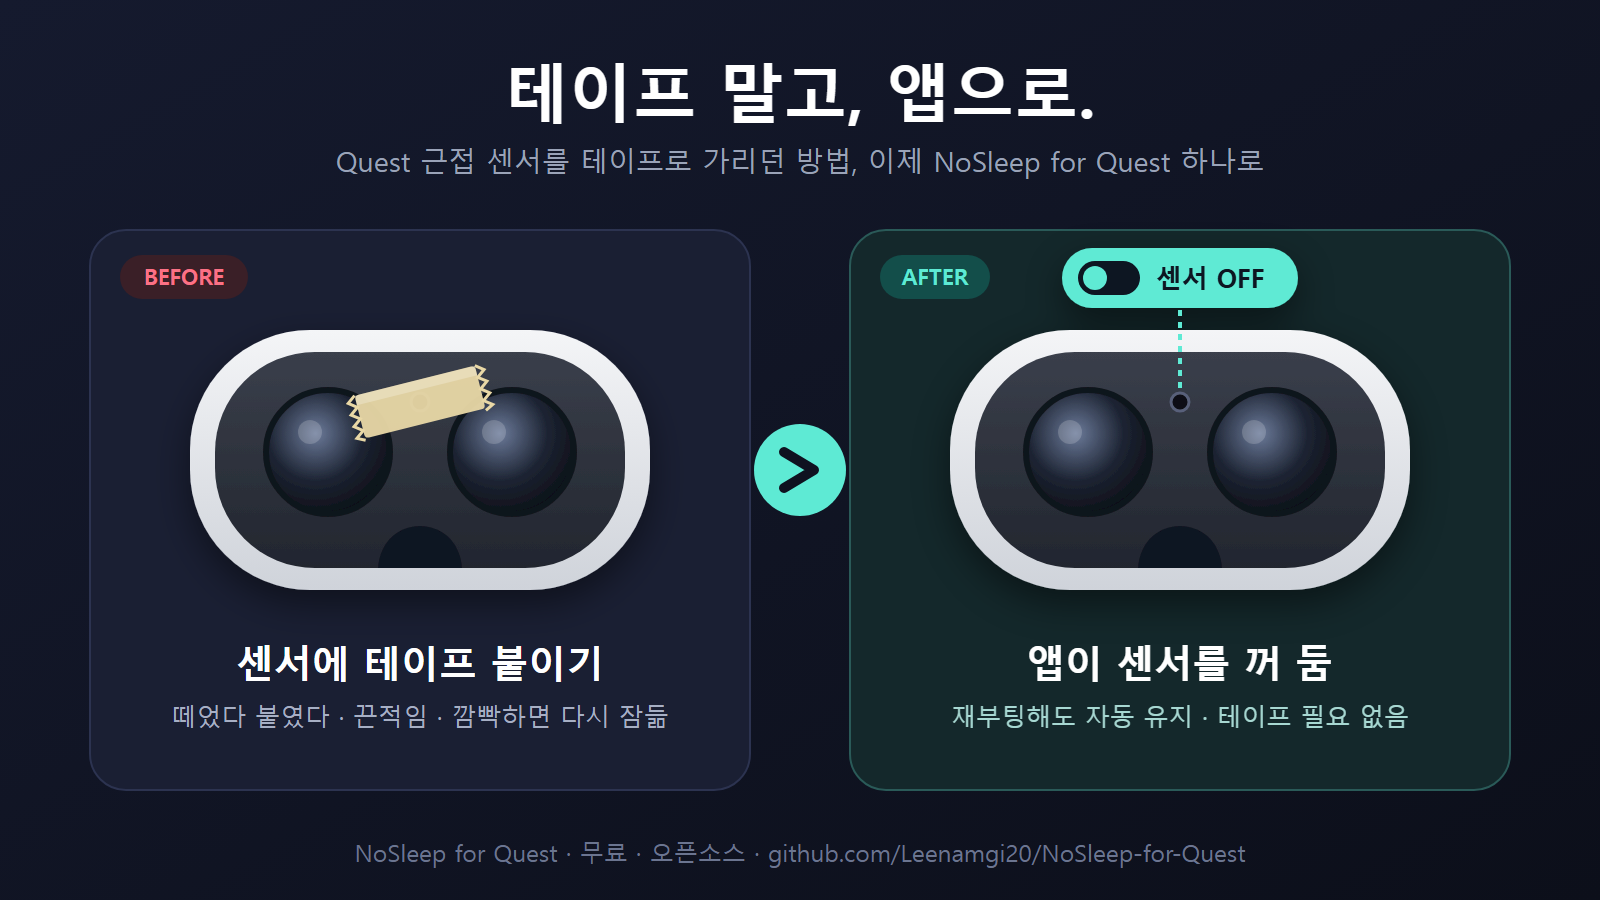
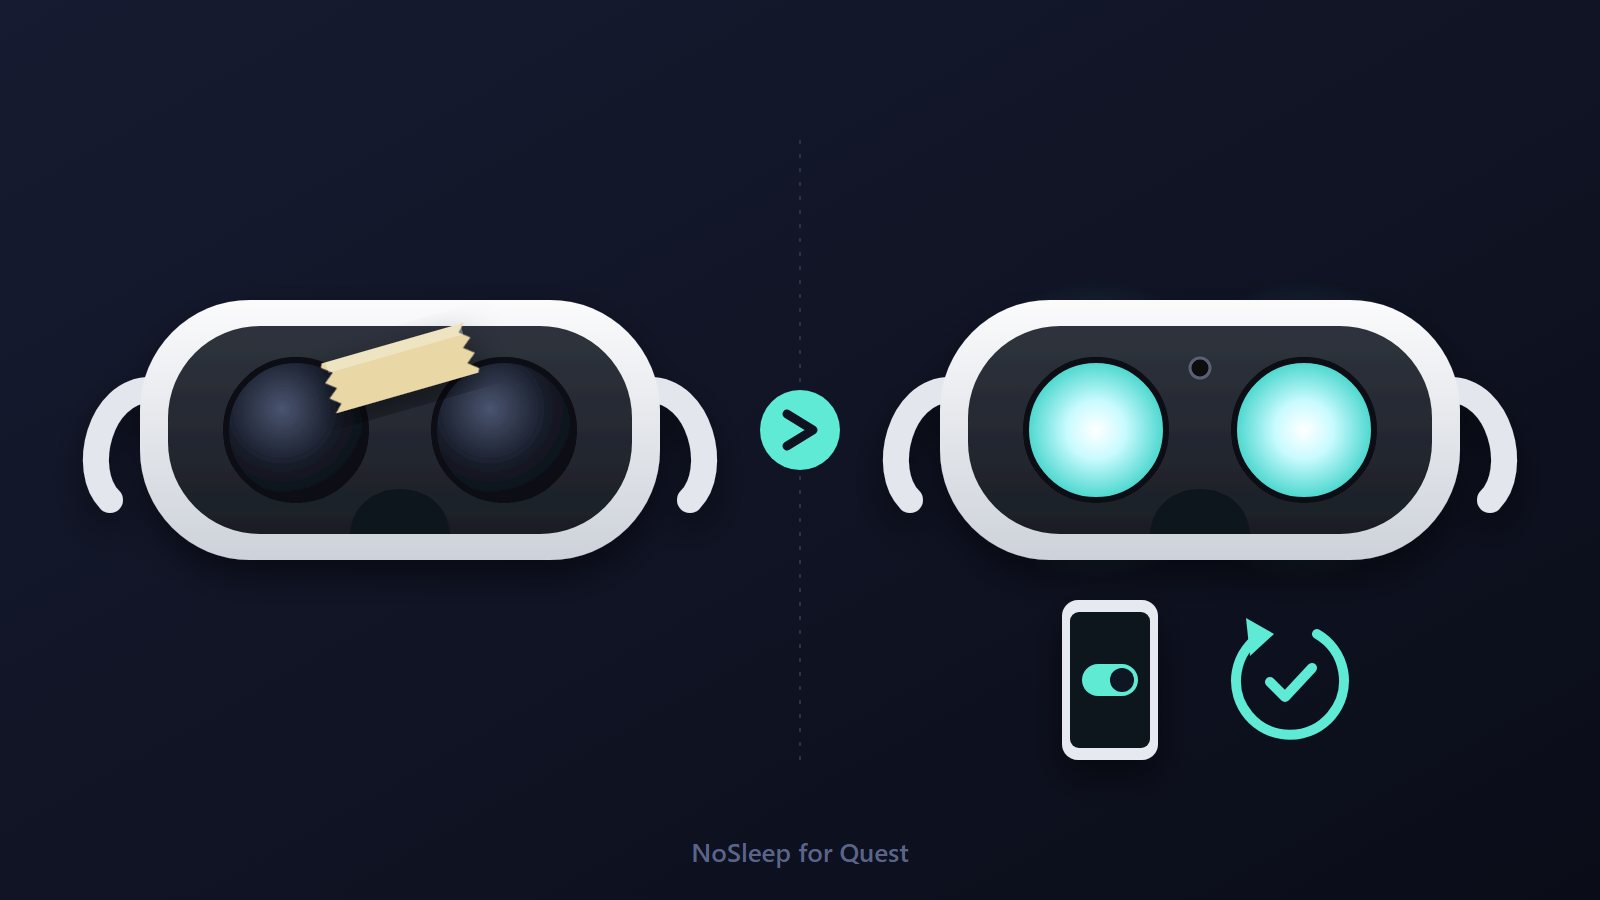
Promo: text-free illustration cards (tape -> app, awake lenses)

diff --git a/docs/promo/card-tape.html b/docs/promo/card-tape.html
@@ -1,91 +1,73 @@
 <!doctype html>
-<html lang="ko"><head><meta charset="utf-8"><title>NoSleep card - tape</title>
-<style>
-  html,body{margin:0;background:#0f1220}
-  body{width:1600px;height:900px;overflow:hidden;font-family:"Malgun Gothic","Apple SD Gothic Neo","Segoe UI",sans-serif}
-</style></head>
+<html><head><meta charset="utf-8"><title>NoSleep card - tape</title>
+<style>html,body{margin:0;background:#0d1020}body{width:1600px;height:900px;overflow:hidden;font-family:"Segoe UI",sans-serif}</style></head>
 <body>
 <svg width="1600" height="900" viewBox="0 0 1600 900" xmlns="http://www.w3.org/2000/svg">
   <defs>
-    <linearGradient id="bg" x1="0" y1="0" x2="1" y2="1">
-      <stop offset="0" stop-color="#151a2e"/><stop offset="1" stop-color="#0c0f1a"/>
-    </linearGradient>
-    <linearGradient id="shell" x1="0" y1="0" x2="0" y2="1">
-      <stop offset="0" stop-color="#f4f5f7"/><stop offset="1" stop-color="#cfd3da"/>
-    </linearGradient>
-    <linearGradient id="cushion" x1="0" y1="0" x2="0" y2="1">
-      <stop offset="0" stop-color="#3a3f4b"/><stop offset="1" stop-color="#22262f"/>
-    </linearGradient>
-    <radialGradient id="lens" cx="0.4" cy="0.35" r="0.7">
-      <stop offset="0" stop-color="#6b7a99"/><stop offset="0.55" stop-color="#1d2433"/><stop offset="1" stop-color="#0b0e15"/>
-    </radialGradient>
-    <filter id="soft" x="-20%" y="-20%" width="140%" height="140%"><feDropShadow dx="0" dy="14" stdDeviation="18" flood-color="#000" flood-opacity=".45"/></filter>
+    <linearGradient id="bg" x1="0" y1="0" x2="1" y2="1"><stop offset="0" stop-color="#161b31"/><stop offset="1" stop-color="#0a0d18"/></linearGradient>
+    <linearGradient id="white" x1="0" y1="0" x2="0" y2="1"><stop offset="0" stop-color="#fbfbfc"/><stop offset="1" stop-color="#cdd2da"/></linearGradient>
+    <linearGradient id="foam" x1="0" y1="0" x2="0" y2="1"><stop offset="0" stop-color="#2f333d"/><stop offset="1" stop-color="#1b1e26"/></linearGradient>
+    <radialGradient id="lensOff" cx="0.4" cy="0.35" r="0.7"><stop offset="0" stop-color="#4a5470"/><stop offset=".6" stop-color="#161b28"/><stop offset="1" stop-color="#090b11"/></radialGradient>
+    <radialGradient id="lensOn" cx="0.5" cy="0.5" r="0.6"><stop offset="0" stop-color="#ffffff"/><stop offset=".35" stop-color="#c8fbff"/><stop offset=".8" stop-color="#4fd8cf"/><stop offset="1" stop-color="#1c7f86"/></radialGradient>
+    <radialGradient id="halo" cx="0.5" cy="0.5" r="0.5"><stop offset="0" stop-color="#c8fbff" stop-opacity=".7"/><stop offset=".45" stop-color="#5eead4" stop-opacity=".22"/><stop offset="1" stop-color="#5eead4" stop-opacity="0"/></radialGradient>
+    <filter id="shadow" x="-30%" y="-30%" width="160%" height="160%"><feDropShadow dx="0" dy="16" stdDeviation="18" flood-color="#000" flood-opacity=".5"/></filter>
 
-    <!-- Generic VR headset seen from the face side: cushion, two lenses, nose gap, proximity sensor between lenses -->
-    <g id="headset">
-      <rect x="-230" y="-130" width="460" height="260" rx="120" fill="url(#shell)"/>
-      <rect x="-205" y="-108" width="410" height="216" rx="100" fill="url(#cushion)"/>
-      <circle cx="-92" cy="-8" r="62" fill="url(#lens)" stroke="#11141b" stroke-width="6"/>
-      <circle cx="92" cy="-8" r="62" fill="url(#lens)" stroke="#11141b" stroke-width="6"/>
-      <circle cx="-110" cy="-28" r="12" fill="#fff" opacity=".18"/>
-      <circle cx="74" cy="-28" r="12" fill="#fff" opacity=".18"/>
-      <path d="M-42 108 C -38 52, 38 52, 42 108 Z" fill="#0f1220"/>
-      <circle cx="0" cy="-58" r="9" fill="#0b0d12" stroke="#59607a" stroke-width="3"/>
+    <!-- Quest-2-like headset, face side: white shell, side straps, black foam, two lenses, nose gap, proximity sensor -->
+    <g id="hmd">
+      <path d="M-250 -40 C -300 -40, -320 40, -290 70" fill="none" stroke="#e3e6ec" stroke-width="26" stroke-linecap="round"/>
+      <path d="M250 -40 C 300 -40, 320 40, 290 70" fill="none" stroke="#e3e6ec" stroke-width="26" stroke-linecap="round"/>
+      <rect x="-260" y="-130" width="520" height="260" rx="110" fill="url(#white)"/>
+      <rect x="-232" y="-104" width="464" height="208" rx="92" fill="url(#foam)"/>
+      <path d="M-50 104 C -46 44, 46 44, 50 104 Z" fill="#11131a"/>
+      <circle cx="0" cy="-62" r="10" fill="#07080c" stroke="#5a6176" stroke-width="3"/>
     </g>
   </defs>
 
   <rect width="1600" height="900" fill="url(#bg)"/>
+  <line x1="800" y1="140" x2="800" y2="760" stroke="#2a3150" stroke-width="2" stroke-dasharray="4 10"/>
 
-  <!-- title -->
-  <text x="800" y="118" text-anchor="middle" font-size="64" font-weight="800" fill="#ffffff">테이프 말고, 앱으로.</text>
-  <text x="800" y="172" text-anchor="middle" font-size="28" fill="#9aa3b8">Quest 근접 센서를 테이프로 가리던 방법, 이제 NoSleep for Quest 하나로</text>
-
-  <!-- BEFORE panel -->
-  <g transform="translate(420 500)">
-    <rect x="-330" y="-270" width="660" height="560" rx="36" fill="#1a1f33" stroke="#2c3350" stroke-width="2"/>
-    <rect x="-300" y="-245" width="128" height="44" rx="22" fill="#3a1f27"/>
-    <text x="-236" y="-215" text-anchor="middle" font-size="22" font-weight="700" fill="#fb7185">BEFORE</text>
-    <g transform="translate(0 -40)" filter="url(#soft)">
-      <use href="#headset"/>
-      <!-- tape over the sensor -->
-      <g transform="translate(0 -58) rotate(-14)">
-        <rect x="-62" y="-22" width="124" height="44" rx="4" fill="#e9d8a6" opacity=".95"/>
-        <path d="M-62 -22 l-8 6 l8 6 l-8 6 l8 6 l-8 6 l8 6 l-8 6 l8 4" fill="none" stroke="#e9d8a6" stroke-width="3"/>
-        <path d="M62 -22 l8 6 l-8 6 l8 6 l-8 6 l8 6 l-8 6 l8 6 l-8 4" fill="none" stroke="#e9d8a6" stroke-width="3"/>
-        <rect x="-62" y="-22" width="124" height="10" fill="#fff" opacity=".25"/>
-      </g>
+  <!-- LEFT: tape over the sensor -->
+  <g transform="translate(400 430)">
+    <g filter="url(#shadow)">
+      <use href="#hmd"/>
+      <circle cx="-104" cy="0" r="70" fill="url(#lensOff)" stroke="#0a0c12" stroke-width="6"/>
+      <circle cx="104" cy="0" r="70" fill="url(#lensOff)" stroke="#0a0c12" stroke-width="6"/>
     </g>
-    <text x="0" y="178" text-anchor="middle" font-size="38" font-weight="800" fill="#ffffff">센서에 테이프 붙이기</text>
-    <text x="0" y="226" text-anchor="middle" font-size="25" fill="#a7afc4">떼었다 붙였다 · 끈적임 · 깜빡하면 다시 잠듦</text>
+    <g transform="translate(0 -62) rotate(-16)" filter="url(#shadow)">
+      <path d="M-74 -26 L 74 -26 L 66 -18 L 76 -10 L 66 -2 L 76 6 L 66 14 L 76 22 L 74 26 L -74 26 L -66 18 L -76 10 L -66 2 L -76 -6 L -66 -14 L -76 -22 Z" fill="#e9d8a6"/>
+      <rect x="-70" y="-26" width="140" height="11" fill="#fff" opacity=".3"/>
+    </g>
+  </g>
+
+  <!-- RIGHT: no tape, lenses on, app toggle, survives reboot -->
+  <g transform="translate(1200 430)">
+    <circle cx="-104" cy="0" r="150" fill="url(#halo)"/><circle cx="104" cy="0" r="150" fill="url(#halo)"/>
+    <g filter="url(#shadow)">
+      <use href="#hmd"/>
+      <circle cx="-104" cy="0" r="70" fill="url(#lensOn)" stroke="#0a0c12" stroke-width="6"/>
+      <circle cx="104" cy="0" r="70" fill="url(#lensOn)" stroke="#0a0c12" stroke-width="6"/>
+    </g>
+    <!-- phone with a toggle switched on -->
+    <g transform="translate(-90 250)" filter="url(#shadow)">
+      <rect x="-48" y="-80" width="96" height="160" rx="16" fill="#e6e9ef"/>
+      <rect x="-40" y="-68" width="80" height="136" rx="9" fill="#10141f"/>
+      <rect x="-28" y="-16" width="56" height="32" rx="16" fill="#5eead4"/>
+      <circle cx="12" cy="0" r="12" fill="#0f1220"/>
+    </g>
+    <!-- reboot arrow with check -->
+    <g transform="translate(90 250)">
+      <path d="M 27 -46 A 54 54 0 1 1 -27 -46" fill="none" stroke="#5eead4" stroke-width="10" stroke-linecap="round"/>
+      <path d="M -44 -62 L -16 -46 L -40 -24 Z" fill="#5eead4"/>
+      <path d="M-20 2 L -5 17 L 22 -12" fill="none" stroke="#5eead4" stroke-width="10" stroke-linecap="round" stroke-linejoin="round"/>
+    </g>
   </g>
 
   <!-- arrow -->
-  <g transform="translate(800 470)">
-    <circle r="46" fill="#5eead4"/>
-    <path d="M-16 -18 L14 0 L-16 18" fill="none" stroke="#0f1220" stroke-width="10" stroke-linecap="round" stroke-linejoin="round"/>
+  <g transform="translate(800 430)">
+    <circle r="40" fill="#5eead4"/>
+    <path d="M-13 -16 L 13 0 L -13 16" fill="none" stroke="#0f1220" stroke-width="9" stroke-linecap="round" stroke-linejoin="round"/>
   </g>
 
-  <!-- AFTER panel -->
-  <g transform="translate(1180 500)">
-    <rect x="-330" y="-270" width="660" height="560" rx="36" fill="#14282b" stroke="#2a5a58" stroke-width="2"/>
-    <rect x="-300" y="-245" width="110" height="44" rx="22" fill="#134e4a"/>
-    <text x="-245" y="-215" text-anchor="middle" font-size="22" font-weight="700" fill="#5eead4">AFTER</text>
-    <g transform="translate(0 -40)" filter="url(#soft)">
-      <use href="#headset"/>
-      <!-- "sensor off" badge pointing at the sensor -->
-      <line x1="0" y1="-72" x2="0" y2="-150" stroke="#5eead4" stroke-width="4" stroke-dasharray="6 6"/>
-      <g transform="translate(0 -182)">
-        <rect x="-118" y="-30" width="236" height="60" rx="30" fill="#5eead4"/>
-        <rect x="-102" y="-17" width="62" height="34" rx="17" fill="#0f1220"/>
-        <circle cx="-85" cy="0" r="12" fill="#5eead4"/>
-        <text x="30" y="10" text-anchor="middle" font-size="26" font-weight="800" fill="#0f1220">센서 OFF</text>
-      </g>
-    </g>
-    <text x="0" y="178" text-anchor="middle" font-size="38" font-weight="800" fill="#ffffff">앱이 센서를 꺼 둠</text>
-    <text x="0" y="226" text-anchor="middle" font-size="25" fill="#a7d8d2">재부팅해도 자동 유지 · 테이프 필요 없음</text>
-  </g>
-
-  <!-- footer -->
-  <text x="800" y="862" text-anchor="middle" font-size="24" fill="#6b7590">NoSleep for Quest · 무료 · 오픈소스 · github.com/Leenamgi20/NoSleep-for-Quest</text>
+  <text x="800" y="862" text-anchor="middle" font-size="26" font-weight="600" fill="#5b6488">NoSleep for Quest</text>
 </svg>
 </body></html>

diff --git a/docs/promo/card-sleep.html b/docs/promo/card-sleep.html
@@ -1,0 +1,95 @@
+<!doctype html>
+<html><head><meta charset="utf-8"><title>NoSleep card - awake</title>
+<style>html,body{margin:0;background:#0d1020}body{width:1600px;height:900px;overflow:hidden;font-family:"Segoe UI",sans-serif}</style></head>
+<body>
+<svg width="1600" height="900" viewBox="0 0 1600 900" xmlns="http://www.w3.org/2000/svg">
+  <defs>
+    <linearGradient id="bg" x1="0" y1="0" x2="1" y2="1"><stop offset="0" stop-color="#161b31"/><stop offset="1" stop-color="#0a0d18"/></linearGradient>
+    <linearGradient id="white" x1="0" y1="0" x2="0" y2="1"><stop offset="0" stop-color="#fbfbfc"/><stop offset="1" stop-color="#cdd2da"/></linearGradient>
+    <linearGradient id="foam" x1="0" y1="0" x2="0" y2="1"><stop offset="0" stop-color="#2f333d"/><stop offset="1" stop-color="#1b1e26"/></linearGradient>
+    <radialGradient id="skin" cx="0.45" cy="0.4" r="0.7"><stop offset="0" stop-color="#f3cdb0"/><stop offset="1" stop-color="#dcab86"/></radialGradient>
+    <radialGradient id="lensOff" cx="0.4" cy="0.35" r="0.7"><stop offset="0" stop-color="#4a5470"/><stop offset=".6" stop-color="#161b28"/><stop offset="1" stop-color="#090b11"/></radialGradient>
+    <radialGradient id="lensOn" cx="0.5" cy="0.5" r="0.6"><stop offset="0" stop-color="#ffffff"/><stop offset=".35" stop-color="#c8fbff"/><stop offset=".8" stop-color="#4fd8cf"/><stop offset="1" stop-color="#1c7f86"/></radialGradient>
+    <radialGradient id="halo" cx="0.5" cy="0.5" r="0.5"><stop offset="0" stop-color="#c8fbff" stop-opacity=".75"/><stop offset=".45" stop-color="#5eead4" stop-opacity=".25"/><stop offset="1" stop-color="#5eead4" stop-opacity="0"/></radialGradient>
+    <filter id="shadow" x="-30%" y="-30%" width="160%" height="160%"><feDropShadow dx="0" dy="14" stdDeviation="16" flood-color="#000" flood-opacity=".5"/></filter>
+
+    <!-- Person, front view (no headset) -->
+    <g id="person">
+      <path d="M-200 330 C -200 200, -120 150, -40 140 L 40 140 C 120 150, 200 200, 200 330 Z" fill="#2c3352"/>
+      <rect x="-38" y="90" width="76" height="70" fill="#d9a783"/>
+      <ellipse cx="-100" cy="-10" rx="18" ry="30" fill="#dcab86"/>
+      <ellipse cx="100" cy="-10" rx="18" ry="30" fill="#dcab86"/>
+      <ellipse cx="0" cy="-20" rx="98" ry="122" fill="url(#skin)"/>
+      <path d="M-100 -60 C -110 -170, 110 -170, 100 -60 C 80 -110, -80 -110, -100 -60 Z" fill="#2a2140"/>
+    </g>
+
+    <!-- Quest-2-like headset seen from the face side (white shell, black foam, two lenses, nose gap) -->
+    <g id="hmd">
+      <rect x="-170" y="-82" width="340" height="164" rx="70" fill="url(#white)"/>
+      <rect x="-152" y="-66" width="304" height="132" rx="58" fill="url(#foam)"/>
+      <path d="M-34 66 C -30 26, 30 26, 34 66 Z" fill="#11131a"/>
+    </g>
+  </defs>
+
+  <rect width="1600" height="900" fill="url(#bg)"/>
+  <line x1="800" y1="140" x2="800" y2="760" stroke="#2a3150" stroke-width="2" stroke-dasharray="4 10"/>
+
+  <!-- LEFT: headset pushed up on the forehead, display asleep -->
+  <g transform="translate(400 470)">
+    <use href="#person" filter="url(#shadow)"/>
+    <!-- eyes + flat mouth -->
+    <ellipse cx="-36" cy="2" rx="9" ry="10" fill="#2b1d17"/><ellipse cx="36" cy="2" rx="9" ry="10" fill="#2b1d17"/>
+    <path d="M-24 58 L 24 58" stroke="#8a4f38" stroke-width="6" stroke-linecap="round"/>
+    <!-- strap around the head -->
+    <path d="M-150 -110 C -150 -20, -112 -10, -100 -40" fill="none" stroke="#e3e6ec" stroke-width="18" stroke-linecap="round"/>
+    <path d="M150 -110 C 150 -20, 112 -10, 100 -40" fill="none" stroke="#e3e6ec" stroke-width="18" stroke-linecap="round"/>
+    <g transform="translate(0 -140)" filter="url(#shadow)">
+      <use href="#hmd"/>
+      <circle cx="-66" cy="-4" r="44" fill="url(#lensOff)" stroke="#0a0c12" stroke-width="5"/>
+      <circle cx="66" cy="-4" r="44" fill="url(#lensOff)" stroke="#0a0c12" stroke-width="5"/>
+    </g>
+    <!-- asleep -->
+    <g transform="translate(200 -300)">
+      <path d="M 0 -46 A 46 46 0 1 0 42 20 A 35 35 0 1 1 0 -46 Z" fill="#c7cde0"/>
+      <text x="56" y="-30" font-size="40" font-weight="800" fill="#8d96b5">z</text>
+      <text x="88" y="-64" font-size="30" font-weight="800" fill="#6e779a">z</text>
+    </g>
+    <g transform="translate(250 220)">
+      <circle r="42" fill="#3a1f2a" stroke="#fb7185" stroke-width="5"/>
+      <path d="M-15 -15 L15 15 M15 -15 L-15 15" stroke="#fb7185" stroke-width="9" stroke-linecap="round"/>
+    </g>
+  </g>
+
+  <!-- RIGHT: same pose, display still on (lenses glowing) -->
+  <g transform="translate(1200 470)">
+    <use href="#person" filter="url(#shadow)"/>
+    <ellipse cx="-36" cy="2" rx="9" ry="10" fill="#2b1d17"/><ellipse cx="36" cy="2" rx="9" ry="10" fill="#2b1d17"/>
+    <path d="M-30 48 Q 0 76 30 48" fill="none" stroke="#8a4f38" stroke-width="6" stroke-linecap="round"/>
+    <path d="M-150 -110 C -150 -20, -112 -10, -100 -40" fill="none" stroke="#e3e6ec" stroke-width="18" stroke-linecap="round"/>
+    <path d="M150 -110 C 150 -20, 112 -10, 100 -40" fill="none" stroke="#e3e6ec" stroke-width="18" stroke-linecap="round"/>
+    <circle cx="-66" cy="-144" r="150" fill="url(#halo)"/><circle cx="-66" cy="-144" r="150" fill="url(#halo)"/>
+    <circle cx="66" cy="-144" r="150" fill="url(#halo)"/><circle cx="66" cy="-144" r="150" fill="url(#halo)"/>
+    <g transform="translate(0 -140)" filter="url(#shadow)">
+      <use href="#hmd"/>
+      <circle cx="-66" cy="-4" r="44" fill="url(#lensOn)" stroke="#0a0c12" stroke-width="5"/>
+      <circle cx="66" cy="-4" r="44" fill="url(#lensOn)" stroke="#0a0c12" stroke-width="5"/>
+    </g>
+    <!-- awake -->
+    <g transform="translate(230 -310)">
+      <circle r="28" fill="#fde68a"/>
+      <g stroke="#fde68a" stroke-width="8" stroke-linecap="round">
+        <line x1="0" y1="-44" x2="0" y2="-58"/><line x1="0" y1="44" x2="0" y2="58"/>
+        <line x1="-44" y1="0" x2="-58" y2="0"/><line x1="44" y1="0" x2="58" y2="0"/>
+        <line x1="31" y1="31" x2="41" y2="41"/><line x1="-31" y1="-31" x2="-41" y2="-41"/>
+        <line x1="31" y1="-31" x2="41" y2="-41"/><line x1="-31" y1="31" x2="-41" y2="41"/>
+      </g>
+    </g>
+    <g transform="translate(250 220)">
+      <circle r="42" fill="#123a37" stroke="#5eead4" stroke-width="5"/>
+      <path d="M-17 0 L-4 13 L19 -13" fill="none" stroke="#5eead4" stroke-width="9" stroke-linecap="round" stroke-linejoin="round"/>
+    </g>
+  </g>
+
+  <text x="800" y="862" text-anchor="middle" font-size="26" font-weight="600" fill="#5b6488">NoSleep for Quest</text>
+</svg>
+</body></html>
